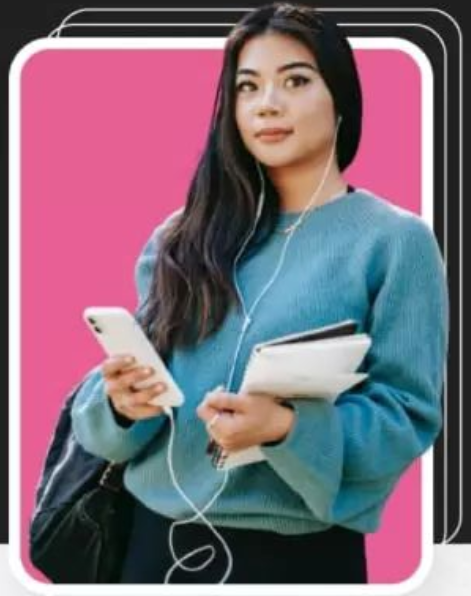
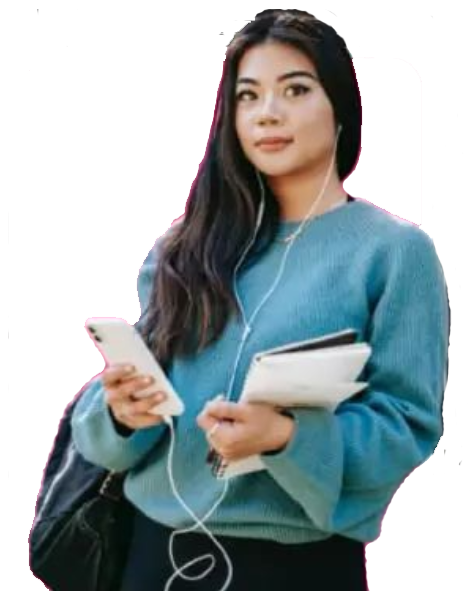
making thee website responsive and adding the clients section

diff --git a/src/App.css b/src/App.css
@@ -11,6 +11,9 @@ nav {
   background-color: #1f1f1f;
   height: 5em;
 }
+.navbar-collapse {
+  background-color: #1f1f1f;
+}
 nav a {
   color: #efefef;
   font-weight: 600;
@@ -47,6 +50,11 @@ nav a:hover {
   font-weight: 500;
   margin-bottom: 2em;
 }
+.banner-btn-div {
+  display: flex;
+  justify-content: space-between;
+  align-items: center;
+}
 .banner-btn {
   color: #efefef !important;
   border-radius: 8px;
@@ -55,6 +63,7 @@ nav a:hover {
   transition: all 0.5s !important;
   padding: 1em 2em;
   font-weight: 600;
+  text-decoration: none !important;
 }
 .banner-btn:hover {
   color: #6e55f2 !important;
@@ -76,4 +85,128 @@ nav a:hover {
   width: 40%;
   font-weight: 600;
   margin-left: -3em;
+}
+.img-div-1 {
+  width: 85%;
+  height: 33em;
+  border: 2px solid #efefef;
+  border-radius: 2em;
+  z-index: 1;
+  position: absolute;
+  right: 2em;
+  top: 4em;
+}
+.img-div-2 {
+  width: 85%;
+  height: 33em;
+  border: 2px solid #efefef;
+  border-radius: 2em;
+  z-index: 2;
+  position: absolute;
+  right: 3em;
+  top: 5em;
+}
+.img-div-3 {
+  width: 85%;
+  height: 33em;
+  border: 10px solid #efefef;
+  border-radius: 2em;
+  z-index: 3;
+  position: absolute;
+  right: 4em;
+  top: 6em;
+  background-color: #e66093;
+  box-shadow: 0px 0px 35px 10px rgba(0, 0, 0, 0.2);
+}
+.client-img-container {
+  width: 20%;
+  float: left;
+}
+.client-img {
+  filter: grayscale(100%);
+  transition: all 0.5s !important;
+  opacity: 0.65;
+}
+.client-img:hover {
+  filter: grayscale(0%);
+  opacity: 1;
+}
+@media screen and (max-width: 600px) {
+  .no-mobile {
+    display: none;
+  }
+  .banner-heading {
+    color: #efefef;
+    font-size: 2em;
+    font-weight: 700;
+    padding-top: 1.6em;
+  }
+  .banner-tagline {
+    color: #7b7b7b;
+    font-size: 1em;
+    font-weight: 500;
+    margin-bottom: 2em;
+  }
+  .banner-btn-div {
+    display: flex;
+    flex-direction: column;
+    align-items: flex-start;
+  }
+  .banner-btn {
+    color: #efefef !important;
+    border-radius: 8px;
+    background-color: #6e55f2;
+    border: 2px solid #6e55f2;
+    transition: all 0.5s !important;
+    padding: 1em 2em;
+    font-weight: 600;
+    text-decoration: none !important;
+  }
+  .banner-btn:hover {
+    color: #6e55f2 !important;
+    background-color: #efefef;
+    border: 2px solid #6e55f2;
+  }
+  .banner-mentees-images {
+    display: flex;
+    align-items: flex-start;
+    justify-content: flex-start;
+    padding-left: 1em;
+    margin-top: 1em;
+  }
+  .banner-mentees-images img {
+    height: 2.5em;
+    width: 2.5em;
+    border-radius: 50%;
+    border: 2px solid #efefef;
+    margin-left: -1em;
+  }
+  .banner-mentees {
+    color: #7b7b7b;
+    width: 40%;
+    font-weight: 600;
+    margin-left: 0em;
+    font-size: 0.8em;
+    margin-top: 1em;
+  }
+  .navbar-toggler {
+    padding: 0.25rem 0.75rem;
+    font-size: 1.25rem;
+    line-height: 1;
+    background-color: transparent;
+    border: 1px solid transparent;
+    border-radius: 0.25rem;
+    color: #fff;
+  }
+  .navbar-collapse {
+    background-color: #1f1f1f;
+    width: 100vw;
+  }
+  .client-img-container {
+    width: 33.33336%;
+    float: left;
+  }
+  .left-margin {
+    margin-left: 16.5%;
+  }
 }

diff --git a/src/components/Banner.js b/src/components/Banner.js
@@ -43,14 +43,10 @@ const Banner = () => {
               needed and match the creative industry
             </p>
 
-            <div
-              style={{
-                display: "flex",
-                justifyContent: "space-between",
-                alignItems: "center"
-              }}
-            >
-              <a className="banner-btn">Browse Class</a>
+            <div className="banner-btn-div">
+              <a href="#" className="banner-btn">
+                Browse Class
+              </a>
               <span
                 className="banner-mentees-images"
                 id="mentees-images"
@@ -58,8 +54,20 @@ const Banner = () => {
               <span className="banner-mentees">162,891 mentees</span>
             </div>
           </div>
-          <div className="col-md-5">
-            <img src={BannerImg} className="mt-5 img-fluid" />
+          <div className="col-md-5 no-mobile">
+            <div className="img-div-1"></div>
+            <div className="img-div-2"></div>
+            <div className="img-div-3">
+              <img
+                style={{
+                  width: "110%",
+                  height: "110%",
+                  position: "absolute",
+                  bottom: "0%"
+                }}
+                src={BannerImg}
+              />
+            </div>
           </div>
         </div>
       </div>

diff --git a/src/components/Clients.js b/src/components/Clients.js
@@ -1,0 +1,29 @@
+import { React } from "react";
+import Google from "../images/google.png";
+import Vistaprint from "../images/vistaprint.png";
+import Tokopedia from "../images/tokopedia.png";
+import Huawei from "../images/huawei.png";
+import Adobe from "../images/adobe.png";
+
+const Clients = () => {
+  return (
+    <div className="container mt-5">
+      <div className="client-img-container">
+        <img src={Adobe} className="img-fluid client-img" />
+      </div>
+      <div className="client-img-container">
+        <img src={Vistaprint} className="img-fluid client-img" />
+      </div>
+      <div className="client-img-container">
+        <img src={Tokopedia} className="img-fluid client-img" />
+      </div>
+      <div className="client-img-container left-margin">
+        <img src={Huawei} className="img-fluid client-img" />
+      </div>
+      <div className="client-img-container">
+        <img src={Google} className="img-fluid client-img" />
+      </div>
+    </div>
+  );
+};
+export default Clients;

diff --git a/public/index.html b/public/index.html
@@ -25,6 +25,8 @@
       href="https://fonts.googleapis.com/css2?family=Montserrat:ital,wght@0,100;0,200;0,300;0,400;0,500;0,600;0,700;0,800;0,900;1,100;1,200;1,300;1,400;1,500;1,600;1,700;1,800;1,900&display=swap"
       rel="stylesheet"
     />
+    <!-- Icons -->
+    <script src="https://use.fontawesome.com/23a1390862.js"></script>
     <title>Creative</title>
   </head>
   <body>

diff --git a/src/components/Nav.js b/src/components/Nav.js
@@ -17,7 +17,7 @@ const Nav = () => {
             aria-expanded="false"
             aria-label="Toggle navigation"
           >
-            <span className="navbar-toggler-icon"></span>
+            <i className="fa fa-bars"></i>
           </button>
           <div className="collapse navbar-collapse" id="navbarNavDropdown">
             <ul className="ml-auto navbar-nav">

diff --git a/src/App.js b/src/App.js
@@ -1,5 +1,6 @@
 import Nav from "./components/Nav";
 import Banner from "./components/Banner.js";
+import Clients from "./components/Clients";
 import "./App.css";
 
 function App() {
@@ -7,6 +8,7 @@ function App() {
     <>
       <Nav />
       <Banner />
+      <Clients />
     </>
   );
 }
